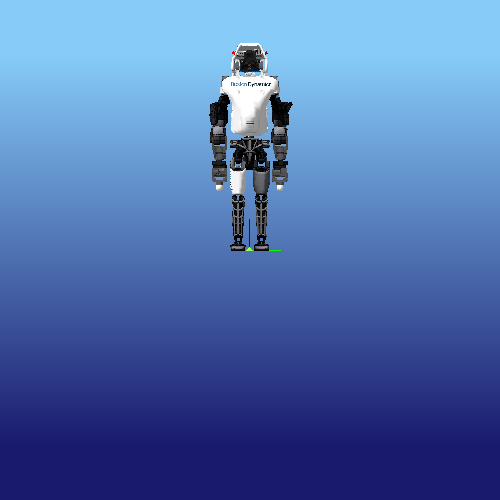
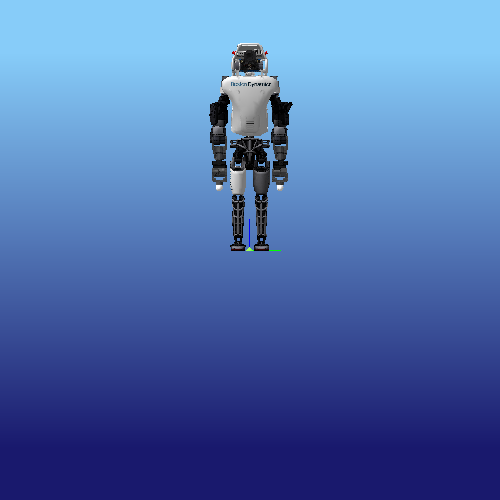
Various bug fixes.

diff --git a/core/src/telemetry/TelemetryRecorder.cc b/core/src/telemetry/TelemetryRecorder.cc
@@ -223,8 +223,7 @@ namespace jiminy
                                          std::vector<AbstractIODevice *> & flows,
                                          int64_t const & integerSectionSize,
                                          int64_t const & floatSectionSize,
-                                         int64_t const & headerSize,
-                                         int64_t const & recordedBytesDataLine)
+                                         int64_t const & headerSize)
     {
         logData.constants.clear();
         logData.fieldnames.clear();
@@ -343,30 +342,29 @@ namespace jiminy
                 }
                 logData.timeUnit = timeUnit;
 
-                // Dealing with data lines, starting with new line flag, time, integers, and ultimately floats
-                if (recordedBytesDataLine > 0)
-                {
-                    uint32_t numberLines = static_cast<uint32_t>(flow->bytesAvailable() / recordedBytesDataLine);
-                    logData.timestamps.reserve(logData.timestamps.size() + numberLines);
-                    logData.intData.reserve(logData.intData.size() + numberLines);
-                    logData.floatData.reserve(logData.floatData.size() + numberLines);
-                }
-
-                std::vector<char_t> startLineTokenBuffer;
-                startLineTokenBuffer.resize(START_LINE_TOKEN.size());
+                // Read all available data lines: [token, time, integers, floats]
+                char_t startLineTokenBuffer;
+                int64_t const startLineTokenSize = static_cast<int64_t>(START_LINE_TOKEN.size());
+                int64_t const recordedBytesDataLine = integerSectionSize + floatSectionSize
+                    + startLineTokenSize + static_cast<int64_t>(sizeof(uint64_t));
+                std::size_t const numberLines = static_cast<std::size_t>(
+                    flow->bytesAvailable() / recordedBytesDataLine);
+                logData.timestamps.reserve(logData.timestamps.size() + numberLines);
                 while (flow->bytesAvailable() > 0)
                 {
-                    flow->read(startLineTokenBuffer);
+                    // Check if actual data are still available.
+                    // It is necessary because a pre-allocated memory may not be full.
+                    flow->readData(&startLineTokenBuffer, 1);
+                    if (startLineTokenBuffer != START_LINE_TOKEN[0])
+                    {
+                        break;
+                    }
+                    flow->seek(flow->pos() + startLineTokenSize - 1);
+
+                    // Read data line
                     flow->readData(&timestamp, sizeof(int64_t));
                     flow->readData(intDataLine.data(), integerSectionSize);
                     flow->readData(floatDataLine.data(), floatSectionSize);
-
-                    if (startLineTokenBuffer[0] != START_LINE_TOKEN[0])
-                    {
-                        // The buffer is full, must stop reading !
-                        break;
-                    }
-
                     logData.timestamps.emplace_back(timestamp);
                     logData.intData.emplace_back(intDataLine);
                     logData.floatData.emplace_back(floatDataLine);
@@ -392,7 +390,6 @@ namespace jiminy
                        abstractFlows_,
                        integerSectionSize_,
                        floatSectionSize_,
-                       headerSize_,
-                       recordedBytesDataLine_);
+                       headerSize_);
     }
 }

diff --git a/python/jiminy_py/src/jiminy_py/viewer/panda3d/panda3d_visualizer.py b/python/jiminy_py/src/jiminy_py/viewer/panda3d/panda3d_visualizer.py
@@ -1577,11 +1577,11 @@ class Panda3dVisualizer(BaseVisualizer):
             scale = npToTuple(geometry_object.meshScale)
             self.viewer.append_mesh(*node_name, mesh_path, scale)
         else:
-            # Suppose texture path does not exists and overwrite color if none
-            if color is None:
+            # Each geometry must have at least a color or a texture
+            if color is None and not geometry_object.overrideMaterial:
                 color = np.array([0.5, 0.5, 0.5, 1.0])
 
-            # append a primitive geometry
+            # Append a primitive geometry
             if isinstance(geom, hppfcl.Capsule):
                 self.viewer.append_capsule(
                     *node_name, geom.radius, 2.0 * geom.halfLength)
@@ -1654,13 +1654,15 @@ class Panda3dVisualizer(BaseVisualizer):
                 f"({type(geom)})", category=UserWarning, stacklevel=2)
             return
 
-        # Set material color from URDF
-        if color is not None:
-            self.viewer.set_material(*node_name, color)
-        elif geometry_object.overrideMaterial:
-            color = geometry_object.meshColor
-            path = geometry_object.meshTexturePath
-            self.viewer.set_material(*node_name, color, path)
+        # Set material
+        texture_path = ""
+        if geometry_object.overrideMaterial:
+            # Set material from URDF
+            if os.path.exists(geometry_object.meshTexturePath):
+                texture_path = geometry_object.meshTexturePath
+            if color is None:
+                color = geometry_object.meshColor
+        self.viewer.set_material(*node_name, color, texture_path)
 
     def loadViewerModel(self,
                         rootNodeName: str,

diff --git a/python/jiminy_py/src/jiminy_py/viewer/meshcat/recorder.py b/python/jiminy_py/src/jiminy_py/viewer/meshcat/recorder.py
@@ -213,8 +213,8 @@ def meshcat_recorder(meshcat_url: str,
         client.html.render(keep_page=True)
         message_shm.value = f"{session._browser.process.pid}"
     except BrowserError as e:
-        message_shm.value = str(e)
         request_shm.value = "quit"
+        message_shm.value = str(e)
 
     # Stop the animation loop by default, since it is not relevant for
     # recording only
@@ -280,14 +280,18 @@ class MeshcatRecorder:
     parallel asyncio loop execution, which is necessary to support recording in
     Jupyter notebook.
     """
-    def __init__(self, url: str):
+    def __new__(cls, *args: Any, **kwargs: Any) -> "MeshcatRecorder":
+        self = super().__new__(cls)
         self.is_open = False
         self.is_recording = False
-        self.url = url
         self.__manager = None
         self.__shm = None
         self.proc = None
         self.__browser_pid = None
+        return self
+
+    def __init__(self, url: str):
+        self.url = url
 
     def open(self) -> None:
         self.__manager = multiprocessing.managers.SyncManager()
@@ -312,9 +316,7 @@ class MeshcatRecorder:
         if self.__shm['request'].value == "quit":
             msg = "Impossible to start chromimum browser in background"
             if not sys.platform.startswith("win"):
-                msg = (
-                    f"{msg}.\nTry installing 'libnss3' using your package "
-                    "manager (`apt` on Ubuntu)")
+                msg = f"{msg}.\nTry installing missing chrome dependencies."
             raise RuntimeError(f"{msg}:\n    {self.__shm['message'].value}")
         elif time_waiting > PYPPETEER_STARTUP_TIMEOUT:
             raise RuntimeError("Pupetter chromimum browser not responding.")

diff --git a/core/src/engine/EngineMultiRobot.cc b/core/src/engine/EngineMultiRobot.cc
@@ -4136,9 +4136,9 @@ namespace jiminy
                                          std::string const & format)
     {
         // Make sure there is something to write
-        if (!telemetryRecorder_->getIsInitialized())
+        if (!isTelemetryConfigured_)
         {
-            PRINT_ERROR("The telemetry is empty. Please run a simulation before writing log.");
+            PRINT_ERROR("Telemetry not configured. Please run a simulation before writing log.");
             return hresult_t::ERROR_BAD_INPUT;
         }
 
@@ -4221,7 +4221,7 @@ namespace jiminy
             // Deduce the parameters required to parse the whole binary log file
             integerSectionSize = (NumIntEntries - 1) * sizeof(int64_t);  // Remove Global.Time
             floatSectionSize = NumFloatEntries * sizeof(float64_t);
-            headerSize = static_cast<int64_t>(file.tellg()) + 1; // Last '\0' is included
+            headerSize = static_cast<int64_t>(file.tellg());  // Last '\0' is included
 
             // Close the file
             file.close();

diff --git a/core/include/jiminy/core/telemetry/TelemetryRecorder.h b/core/include/jiminy/core/telemetry/TelemetryRecorder.h
@@ -42,8 +42,8 @@ namespace jiminy
         std::size_t numInt;
         std::size_t numFloat;
         std::vector<int64_t> timestamps;
-        std::vector<std::vector<int64_t> > intData;
-        std::vector<std::vector<float64_t> > floatData;
+        std::deque<std::vector<int64_t> > intData;
+        std::deque<std::vector<float64_t> > floatData;
     };
 
     ////////////////////////////////////////////////////////////////////////
@@ -96,8 +96,7 @@ namespace jiminy
                                  std::vector<AbstractIODevice *> & flows,
                                  int64_t const & integerSectionSize,
                                  int64_t const & floatSectionSize,
-                                 int64_t const & headerSize,
-                                 int64_t const & recordedBytesDataLine = -1);
+                                 int64_t const & headerSize);
         hresult_t getData(logData_t & logData);
     private:
         ////////////////////////////////////////////////////////////////////////

diff --git a/python/gym_jiminy/rllib/gym_jiminy/rllib/utilities.py b/python/gym_jiminy/rllib/gym_jiminy/rllib/utilities.py
@@ -27,7 +27,8 @@ from ray.state import GlobalState
 from ray._private import services
 from ray._private.gcs_utils import AvailableResources
 from ray._private.test_utils import monitor_memory_usage
-from ray._raylet import GcsClientOptions
+from ray._raylet import (  # pylint: disable=no-name-in-module,import-error
+    GcsClientOptions)
 from ray.exceptions import RayTaskError
 from ray.tune.logger import Logger, TBXLogger
 from ray.tune.utils.util import SafeFallbackEncoder
